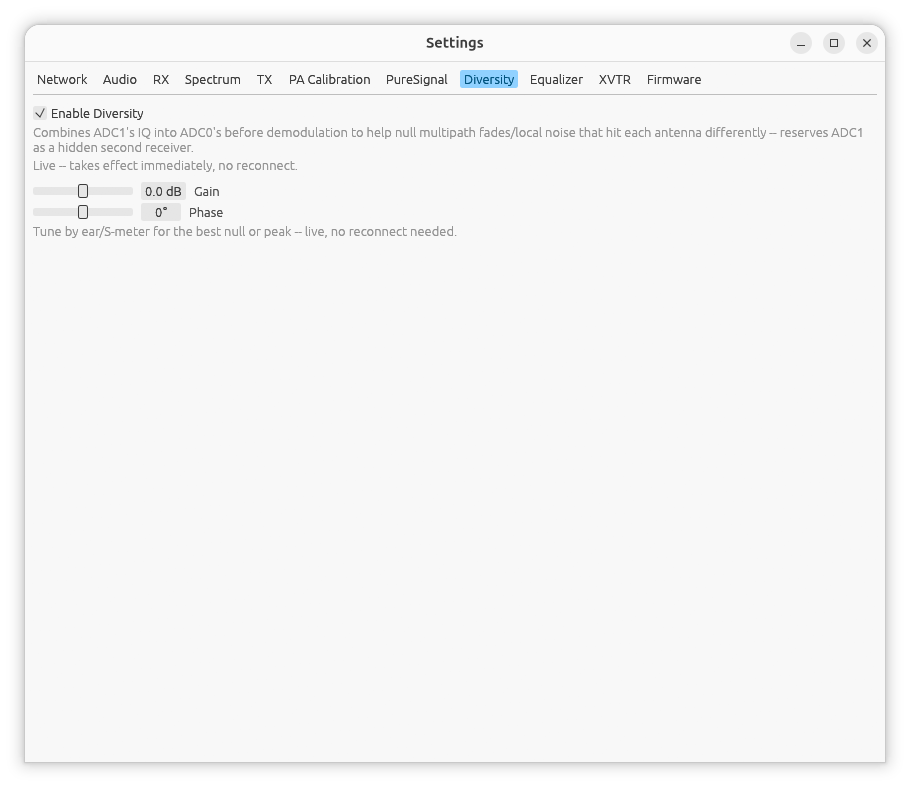
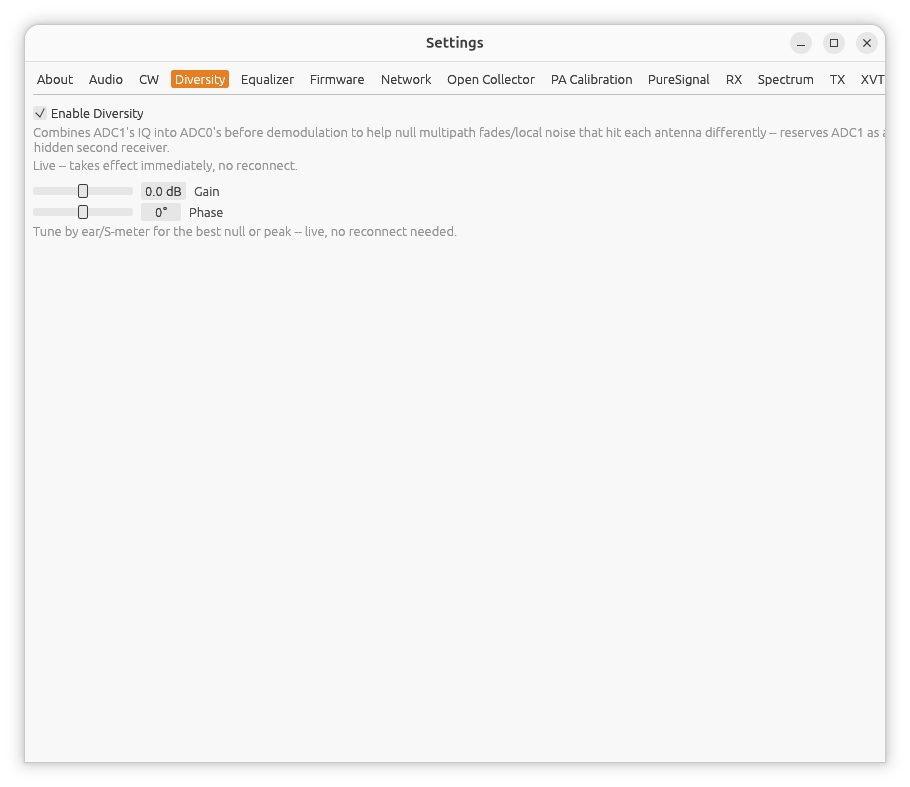
docs: update manual screenshots, add Settings: CW page
Refresh all manual screenshots with updated captures, add an About-tab
image, and add a new Settings: CW chapter (CW Pitch, the radio's
internal keyer controls, and saved CW text messages) that was
previously missing entirely -- inserted alphabetically between Audio
and Diversity, shifting every later Settings page's number by one.
Update all internal nav links, the README's Contents list, and fix a
pre-existing broken #cw-decoder anchor along the way.

Claude-Session: https://claude.ai/code/session_011NAXJVceZqGJGqv4eTP3y8

Changed region(s): [[0.0308, 0.0915, 0.7692, 0.122], [0.0308, 0.183, 0.2154, 0.2135], [0.8308, 0.0915, 0.8923, 0.122]]

diff --git a/docs/manual/02-main-window.md b/docs/manual/02-main-window.md
@@ -59,13 +59,14 @@ until you clear it yourself (the panel's own **Clear** button) or
 reconnect. Each extra receiver window has its own independent **CW
 Decode** button and panel, next to that receiver's own CTUN.
 
-**Settings → CW** has a **CW Pitch** slider (300-1000 Hz, 600 Hz by
-default) -- the audio pitch **CWL**/**CWU** centers on, affecting the RX
-filter, click-to-tune centering above, and the TX Tune tone. It's a
-single setting shared by the main receiver and every extra receiver (no
-per-receiver override), since it's really "what pitch do you want to
-hear/zero-beat CW at", not a per-receiver hardware setting. More CW
-options (TX keyer, break-in, etc.) are planned for this tab.
+[Settings: CW](06-settings-cw.md) has a **CW Pitch** slider (300-1000 Hz,
+600 Hz by default) -- the audio pitch **CWL**/**CWU** centers on,
+affecting the RX filter, click-to-tune centering above, and the TX Tune
+tone. It's a single setting shared by the main receiver and every extra
+receiver (no per-receiver override), since it's really "what pitch do you
+want to hear/zero-beat CW at", not a per-receiver hardware setting. That
+same tab also configures the radio's internal CW keyer (speed, weight,
+sidetone, break-in) and up to 5 saved CW text messages.
 
 ## VFO A / VFO B / Split
 
@@ -100,10 +101,10 @@ all -- e.g. HermesLite/HermesLite2 cap out around 30.72MHz, so **6m**
 → PA Calibration's per-band list and to extra receiver windows' own band
 row.
 
-A configured [transverter](16-xvtr.md) (Settings → **XVTR**) appears as an
+A configured [transverter](17-xvtr.md) (Settings → **XVTR**) appears as an
 extra button alongside the band row, showing the real RF frequency (e.g.
 2m) while the radio's actual hardware stays tuned to its true IF
-underneath -- see [Settings: XVTR](16-xvtr.md) for how to define one.
+underneath -- see [Settings: XVTR](17-xvtr.md) for how to define one.
 
 Below that, a row of mode buttons: **LSB, USB, DSB, CWL, CWU, FM, AM, DIGU,
 SPEC, DIGL, SAM, DRM**.
@@ -193,7 +194,7 @@ Transmit**):
   TX Power) -- for safely tuning an antenna or amplifier.
 - **TWO TONE** -- transmits a two-tone test signal instead of a steady
   tone, also at Tune Power. This is required (not just an alternative) for
-  PureSignal calibration -- see [PureSignal](12-puresignal.md).
+  PureSignal calibration -- see [PureSignal](13-puresignal.md).
 - **RIT** (Receiver Incremental Tuning) -- nudges what you actually hear
   without touching VFO A's displayed or logged frequency, useful for
   zero-beating a station that's drifted slightly off frequency without
@@ -226,7 +227,7 @@ project's current TX verification status.
 The spectrum pane shows the live signal trace with a shaded band marking
 the current filter passband and a vertical line marking the dial frequency
 -- blue while receiving, red/orange while transmitting (see
-[Settings: Spectrum](14-settings-spectrum.md#while-transmitting) for what
+[Settings: Spectrum](15-settings-spectrum.md#while-transmitting) for what
 changes about this while Split is in use). Ten frequency-axis gridlines
 span the pane; the label at the very first and last one is skipped (the
 gridline itself still draws) since it would otherwise get clipped or hang
@@ -275,12 +276,12 @@ Anchored in the top-right of the window:
   configured **Max TX Power** (Settings → TX). The needle is red whenever
   you're transmitting at all, and if SWR reaches or exceeds **Max SWR**
   (Settings → TX) at more than 35W, **TX Power** is automatically cut to
-  10W to protect the PA -- see [Settings: TX](15-settings-tx.md#max-swr)
+  10W to protect the PA -- see [Settings: TX](16-settings-tx.md#max-swr)
   for the full behavior.
 
 Below the meter:
 
-- **Settings...** opens the [Settings window](09-settings-network.md).
+- **Settings...** opens the [Settings window](10-settings-network.md).
 - **Add Receiver (n/max)** adds another independent receiver window (see
   [Extra Receivers](03-extra-receivers.md)) -- hidden once you've reached
   the radio's maximum receiver count, replaced with **All N receivers

diff --git a/docs/manual/06-settings-cw.md b/docs/manual/06-settings-cw.md
@@ -1,0 +1,61 @@
+[← Audio](05-settings-audio.md) | [Index](README.md) | [Diversity →](07-diversity.md)
+
+# Settings: CW
+
+Open **Settings...** from the main window, then the **CW** tab.
+
+![CW settings tab](images/cw-tab.png)
+
+## CW Pitch
+
+**CW Pitch** (300-1000 Hz, 600 Hz by default) is the audio pitch
+**CWL**/**CWU** centers on -- it affects the RX filter, the
+[click-to-tune centering](02-main-window.md#cw-decode) on the main
+window's spectrum/waterfall, and the TX Tune tone. It's a single setting
+shared by the main receiver and every extra receiver window (no
+per-receiver override), since it's really "what pitch do you want to
+hear/zero-beat CW at" rather than a per-receiver hardware setting.
+
+## Keyer (radio's own built-in/internal keyer)
+
+These controls configure the radio's own CW keyer, for a paddle wired
+directly into the radio -- **not** a paddle connected to this PC. hpsdr-rs
+sends them to the radio on every packet; the radio's own firmware reads
+the physical paddle contacts and handles the iambic/straight-key timing,
+sidetone, and TX/RX switching entirely on its own.
+
+- **Mode** -- **Straight**, **Iambic A**, or **Iambic B** (Iambic A by
+  default).
+- **Speed** -- 1-60 WPM, 16 WPM by default.
+- **Weight** -- 0-100, 50 by default. The dot/dash timing ratio: 50 is
+  the standard 1:3 ratio; higher lengthens dashes and shortens dots,
+  lower does the reverse.
+- **Sidetone Level** -- 0-127, 50 by default.
+- **Sidetone Frequency** -- 100-1000 Hz, 800 Hz by default. What you
+  hear in your own headphones while sending -- independent of **CW
+  Pitch** above, which is the RX side.
+- **Break-in Delay** -- 0-1000 ms, 500 ms by default. How long the radio
+  holds TX after the last paddle element before dropping back to RX.
+- **PC Sidetone** -- off by default. Also plays the sidetone through
+  this PC's own audio output (using **Sidetone Level**/**Sidetone
+  Frequency** above), in addition to whatever the radio's own internal
+  keyer does on its own local speaker/headphone output. Useful when the
+  radio has no local audio output of its own, or for remote operation.
+
+## CW Text Messages
+
+Up to 5 saved messages, each in its own single-line text field (**1**
+through **5**). These are sent as real CW via the **SEND CW**/**STOP**
+control on the main window, at the **Speed**/**Weight** set above,
+through the radio's own transmitter -- this doesn't use the internal
+keyer above, since there's no paddle involved; hpsdr-rs generates the CW
+carrier directly. See [Main Window](02-main-window.md#transmit-controls)
+for the Send/Stop control itself.
+
+Kenwood CAT's `KY` command and rigctl's `send_morse`/`stop_morse` also
+send real CW this way, at the same Speed/Weight configured here, though
+neither has any control of its own on this tab.
+
+---
+
+[← Audio](05-settings-audio.md) | [Index](README.md) | [Diversity →](07-diversity.md)

diff --git a/docs/manual/README.md b/docs/manual/README.md
@@ -11,18 +11,19 @@ from source and project status, see the [top-level README](../../README.md).
 3. [Extra Receivers](03-extra-receivers.md) -- adding independent receiver windows
 4. [Settings: About](04-about.md) -- connected radio details and author info
 5. [Settings: Audio](05-settings-audio.md) -- RX output device, TX input device
-6. [Settings: Diversity](06-diversity.md) -- 2-ADC diversity reception
-7. [Settings: Equalizer](07-equalizer.md) -- RX/TX graphic EQ
-8. [Firmware Update](08-firmware-update.md) -- updating FPGA firmware and changing a radio's IP, in bootloader mode or in-application
-9. [Settings: Network](09-settings-network.md) -- rigctl, TCI, and CAT control servers
-10. [Settings: Open Collector](10-open-collector.md) -- per-band relay-driver output configuration
-11. [Settings: PA Calibration](11-pa-calibration.md) -- per-band power calibration
-12. [Settings: PureSignal](12-puresignal.md) -- PA linearization setup and calibration procedure
-13. [Settings: RX](13-settings-rx.md) -- sample rate, ADC/antenna, AGC, noise blanker/reduction
-14. [Settings: Spectrum](14-settings-spectrum.md) -- display range, waterfall palette
-15. [Settings: TX](15-settings-tx.md) -- TX power, mic source, safety notes
-16. [Settings: XVTR](16-xvtr.md) -- defining transverters (IF-to-RF band conversion)
-17. [Ozy USB](17-ozy-usb.md) -- connecting the original Ozy/Mercury/Penny hardware over USB (new, unconfirmed)
+6. [Settings: CW](06-settings-cw.md) -- CW Pitch, the radio's internal keyer, and saved CW text messages
+7. [Settings: Diversity](07-diversity.md) -- 2-ADC diversity reception
+8. [Settings: Equalizer](08-equalizer.md) -- RX/TX graphic EQ
+9. [Firmware Update](09-firmware-update.md) -- updating FPGA firmware and changing a radio's IP, in bootloader mode or in-application
+10. [Settings: Network](10-settings-network.md) -- rigctl, TCI, and CAT control servers
+11. [Settings: Open Collector](11-open-collector.md) -- per-band relay-driver output configuration
+12. [Settings: PA Calibration](12-pa-calibration.md) -- per-band power calibration
+13. [Settings: PureSignal](13-puresignal.md) -- PA linearization setup and calibration procedure
+14. [Settings: RX](14-settings-rx.md) -- sample rate, ADC/antenna, AGC, noise blanker/reduction
+15. [Settings: Spectrum](15-settings-spectrum.md) -- display range, waterfall palette
+16. [Settings: TX](16-settings-tx.md) -- TX power, mic source, safety notes
+17. [Settings: XVTR](17-xvtr.md) -- defining transverters (IF-to-RF band conversion)
+18. [Ozy USB](18-ozy-usb.md) -- connecting the original Ozy/Mercury/Penny hardware over USB (new, unconfirmed)
 
 **PDF**: this whole manual is also available as a single PDF, useful for
 offline/printed reading. It's built automatically by the "Manual PDF"

diff --git a/docs/manual/03-extra-receivers.md b/docs/manual/03-extra-receivers.md
@@ -15,7 +15,7 @@ window titled **Receiver N** opens. This button disappears (replaced by
 **All N receivers active**) once you've reached the radio's maximum
 receiver count.
 
-On a [PureSignal](12-puresignal.md)-capable radio, "max" here is 2 lower
+On a [PureSignal](13-puresignal.md)-capable radio, "max" here is 2 lower
 than the radio's full receiver capacity -- PureSignal's two feedback
 receivers are reserved for the whole session as soon as you connect,
 whether or not PureSignal is actually enabled.
@@ -29,7 +29,7 @@ boxes with **A>B**/**B>A**/**A<>B** buttons (same as the main window's own
 -- see [Frequency display and tuning](02-main-window.md#frequency-display-and-tuning)
 -- but no **Split** button, since extra receivers never transmit), with
 **CTUN** and, while in CW mode, **CW Decode** (see
-[CW decoder](02-main-window.md#cw-decoder)) in the row underneath, band
+[CW decoder](02-main-window.md#cw-decode)) in the row underneath, band
 and mode rows, **Filter width** and **Audio gain** sliders, the
 **Record**/NB/NR/SNB/ANF/BIN/AGC/AGC Gain/RIT toggle row -- RIT here
 works the same as the
@@ -66,7 +66,7 @@ Calibration, PureSignal, and Diversity are session-wide, not per-receiver:
 - **Spectrum** -- display range and waterfall palette, same as the main
   window's Spectrum tab (no separate TX range here, since extra receivers
   never transmit).
-- **EQ** -- its own independent [graphic equalizer](07-equalizer.md),
+- **EQ** -- its own independent [graphic equalizer](08-equalizer.md),
   RX-only.
 
 ![Extra receiver settings window](images/11-extra-receiver-settings.png)

diff --git a/docs/manual/17-xvtr.md b/docs/manual/17-xvtr.md
@@ -1,4 +1,4 @@
-[← TX](15-settings-tx.md) | [Index](README.md) | [Ozy USB →](17-ozy-usb.md)
+[← TX](16-settings-tx.md) | [Index](README.md) | [Ozy USB →](18-ozy-usb.md)
 
 # Settings: XVTR
 
@@ -36,7 +36,7 @@ corresponding IF range actually fits this radio's native tunable range.
 Clicking it retunes to the slot's RF minimum. While active:
 
 - VFO-A, the spectrum/waterfall frequency axis, and
-  [CAT/rigctl/TCI](09-settings-network.md) frequency reporting all show the
+  [CAT/rigctl/TCI](10-settings-network.md) frequency reporting all show the
   real RF frequency, even though the radio's actual hardware LO stays at
   the true IF underneath.
 - Clicking back to an ordinary band leaves the transverter and returns to
@@ -47,7 +47,7 @@ Clicking it retunes to the slot's RF minimum. While active:
 - Supports up to ~4.3GHz of RF range (covers roughly 2m through 9cm) -- not
   microwave/QO-100-class transverters.
 - Main receiver only -- extra receiver windows and
-  [PA Calibration](11-pa-calibration.md) don't know about configured
+  [PA Calibration](12-pa-calibration.md) don't know about configured
   transverters.
 - This feature has not been verified against real transverter hardware --
   bench-test at low power before relying on it, same as any other TX-path
@@ -55,4 +55,4 @@ Clicking it retunes to the slot's RF minimum. While active:
 
 ---
 
-[← TX](15-settings-tx.md) | [Index](README.md) | [Ozy USB →](17-ozy-usb.md)
+[← TX](16-settings-tx.md) | [Index](README.md) | [Ozy USB →](18-ozy-usb.md)

diff --git a/docs/manual/13-puresignal.md b/docs/manual/13-puresignal.md
@@ -1,10 +1,10 @@
-[← PA Calibration](11-pa-calibration.md) | [Index](README.md) | [RX →](13-settings-rx.md)
+[← PA Calibration](12-pa-calibration.md) | [Index](README.md) | [RX →](14-settings-rx.md)
 
 # Settings: PureSignal
 
 Open **Settings...** from the main window, then the **PureSignal** tab.
 PureSignal predistorts your TX signal to linearize your amplifier, reducing
-splatter/IMD. It's mutually exclusive with [Diversity](06-diversity.md) --
+splatter/IMD. It's mutually exclusive with [Diversity](07-diversity.md) --
 both reserve extra receiver resources on the radio in incompatible ways, so
 only one can be enabled at a time.
 
@@ -54,7 +54,7 @@ Once enabled (and TX armed), the rest of this tab's controls appear:
   measuring.
 - **Feedback Attenuation** (non-HermesLite boards) -- 0-31 dB, adjust to
   keep Feedback Level in the ideal range. Same underlying value as
-  [Settings: TX](15-settings-tx.md)'s **TX ADC0 Attenuation** -- it isn't
+  [Settings: TX](16-settings-tx.md)'s **TX ADC0 Attenuation** -- it isn't
   PureSignal-specific, it protects ADC0 from this radio's own TX leakage
   generally, PureSignal or not.
 - **Auto Attenuate (Two Tone)** (non-HermesLite boards) -- periodically
@@ -99,4 +99,4 @@ per-board constant to leave alone.
 
 ---
 
-[← PA Calibration](11-pa-calibration.md) | [Index](README.md) | [RX →](13-settings-rx.md)
+[← PA Calibration](12-pa-calibration.md) | [Index](README.md) | [RX →](14-settings-rx.md)

diff --git a/docs/manual/11-open-collector.md b/docs/manual/11-open-collector.md
@@ -1,4 +1,4 @@
-[← Network](09-settings-network.md) | [Index](README.md) | [PA Calibration →](11-pa-calibration.md)
+[← Network](10-settings-network.md) | [Index](README.md) | [PA Calibration →](12-pa-calibration.md)
 
 # Settings: Open Collector
 
@@ -12,7 +12,7 @@ switching, bandpass filter selection, or amplifier keying. This tab lets you
 configure which outputs are active on each band, separately for receive and
 transmit.
 
-One row per band, plus a row per configured [XVTR](16-xvtr.md) slot with a
+One row per band, plus a row per configured [XVTR](17-xvtr.md) slot with a
 non-empty name:
 
 - **Rx** -- which of OC1-OC7 are active while receiving on that band.
@@ -43,4 +43,4 @@ windows don't have their own Open Collector settings.
 
 ---
 
-[← Network](09-settings-network.md) | [Index](README.md) | [PA Calibration →](11-pa-calibration.md)
+[← Network](10-settings-network.md) | [Index](README.md) | [PA Calibration →](12-pa-calibration.md)

diff --git a/docs/manual/16-settings-tx.md b/docs/manual/16-settings-tx.md
@@ -1,4 +1,4 @@
-[← Spectrum](14-settings-spectrum.md) | [Index](README.md) | [XVTR →](16-xvtr.md)
+[← Spectrum](15-settings-spectrum.md) | [Index](README.md) | [XVTR →](17-xvtr.md)
 
 # Settings: TX
 
@@ -43,7 +43,7 @@ Protects ADC0's front end from this radio's own TX leakage while
 transmitting (0-31dB, default 20dB). If you see an **ADC0 Overload**
 warning while transmitting, raise this. Not shown on HermesLite/
 HermesLite2, which handle RX gain differently. Same underlying value as
-[PureSignal](12-puresignal.md)'s **Feedback Attenuation** slider --
+[PureSignal](13-puresignal.md)'s **Feedback Attenuation** slider --
 adjusting either one changes both.
 
 ## Enable Transmit
@@ -79,4 +79,4 @@ Two settings for boards with a shared PTT/mic/bias connector:
 
 ---
 
-[← Spectrum](14-settings-spectrum.md) | [Index](README.md) | [XVTR →](16-xvtr.md)
+[← Spectrum](15-settings-spectrum.md) | [Index](README.md) | [XVTR →](17-xvtr.md)

diff --git a/docs/manual/04-about.md b/docs/manual/04-about.md
@@ -4,6 +4,8 @@
 
 Open **Settings...** from the main window, then the **About** tab.
 
+![About settings tab](images/about-tab.png)
+
 Shows details of the radio currently connected to:
 
 - **Board** -- the detected board type (e.g. Orion2, HermesLite2).
@@ -11,7 +13,7 @@ Shows details of the radio currently connected to:
   Ethernet).
 - **Protocol Version** -- the firmware's reported protocol version.
 - **IP Address** -- the radio's own address on the network. Shows "USB"
-  for [Ozy USB](17-ozy-usb.md) instead, which has no network address.
+  for [Ozy USB](18-ozy-usb.md) instead, which has no network address.
 - **MAC Address** -- the radio's hardware Ethernet address. Not shown
   for Ozy (no real MAC).
 - **Interface** -- which of this computer's own network interfaces (e.g.

diff --git a/docs/manual/07-diversity.md b/docs/manual/07-diversity.md
@@ -1,10 +1,10 @@
-[← Audio](05-settings-audio.md) | [Index](README.md) | [Equalizer →](07-equalizer.md)
+[← CW](06-settings-cw.md) | [Index](README.md) | [Equalizer →](08-equalizer.md)
 
 # Settings: Diversity
 
 Open **Settings...** from the main window, then the **Diversity** tab. This
 tab only appears on radios with two ADCs. It's mutually exclusive with
-[PureSignal](12-puresignal.md).
+[PureSignal](13-puresignal.md).
 
 ![Diversity settings tab](images/09-diversity-tab.png)
 
@@ -37,4 +37,4 @@ best peak of a wanted one. Both sliders take effect live as you move them.
 
 ---
 
-[← Audio](05-settings-audio.md) | [Index](README.md) | [Equalizer →](07-equalizer.md)
+[← CW](06-settings-cw.md) | [Index](README.md) | [Equalizer →](08-equalizer.md)

diff --git a/docs/manual/18-ozy-usb.md b/docs/manual/18-ozy-usb.md
@@ -1,4 +1,4 @@
-[← XVTR](16-xvtr.md) | [Index](README.md)
+[← XVTR](17-xvtr.md) | [Index](README.md)
 
 # Ozy USB (legacy hardware)
 
@@ -65,11 +65,11 @@ actually begins.
   reports these over a separate I2C channel (Penny/Mercury telemetry)
   rather than in the main data stream the way Metis/Hermes-class boards
   do, but they feed the exact same meter and Max SWR protection (see
-  [Settings: TX](15-settings-tx.md)) as every other board.
+  [Settings: TX](16-settings-tx.md)) as every other board.
 - See [Settings: About](04-about.md) for what the About tab shows for
   an Ozy connection specifically (firmware versions, "USB" in place of
   network details).
 
 ---
 
-[← XVTR](16-xvtr.md) | [Index](README.md)
+[← XVTR](17-xvtr.md) | [Index](README.md)

diff --git a/docs/manual/01-getting-started.md b/docs/manual/01-getting-started.md
@@ -54,12 +54,12 @@ broadcast-discovered one.
 
 **Firmware Update...** opens a separate window for updating a radio's FPGA
 firmware or changing its IP address while it's in bootloader mode -- see
-[Firmware Update](08-firmware-update.md).
+[Firmware Update](09-firmware-update.md).
 
 **Ozy USB setup** is for the original HPSDR hardware (an Ozy board with
 separate Mercury/Penny boards), which connects over USB instead of the
 network and needs a one-time driver/firmware setup before it shows up in
-this list -- see [Ozy USB](17-ozy-usb.md) for the full walkthrough.
+this list -- see [Ozy USB](18-ozy-usb.md) for the full walkthrough.
 
 ## Connecting
 
